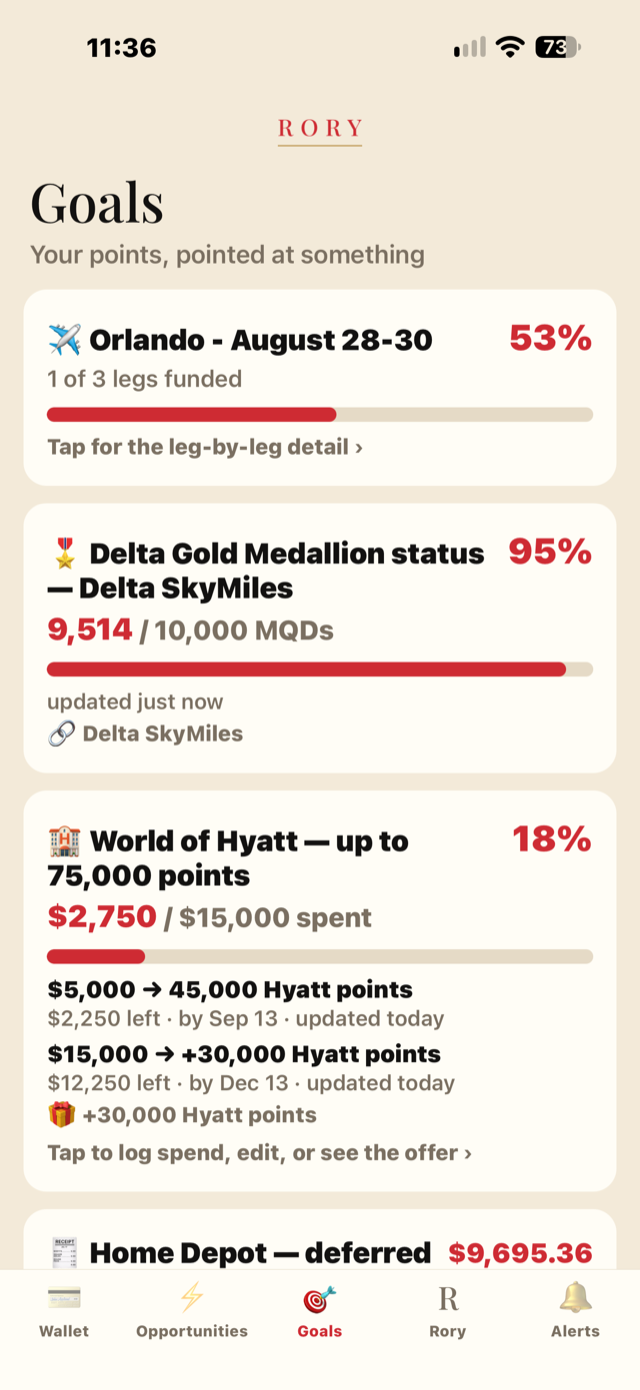
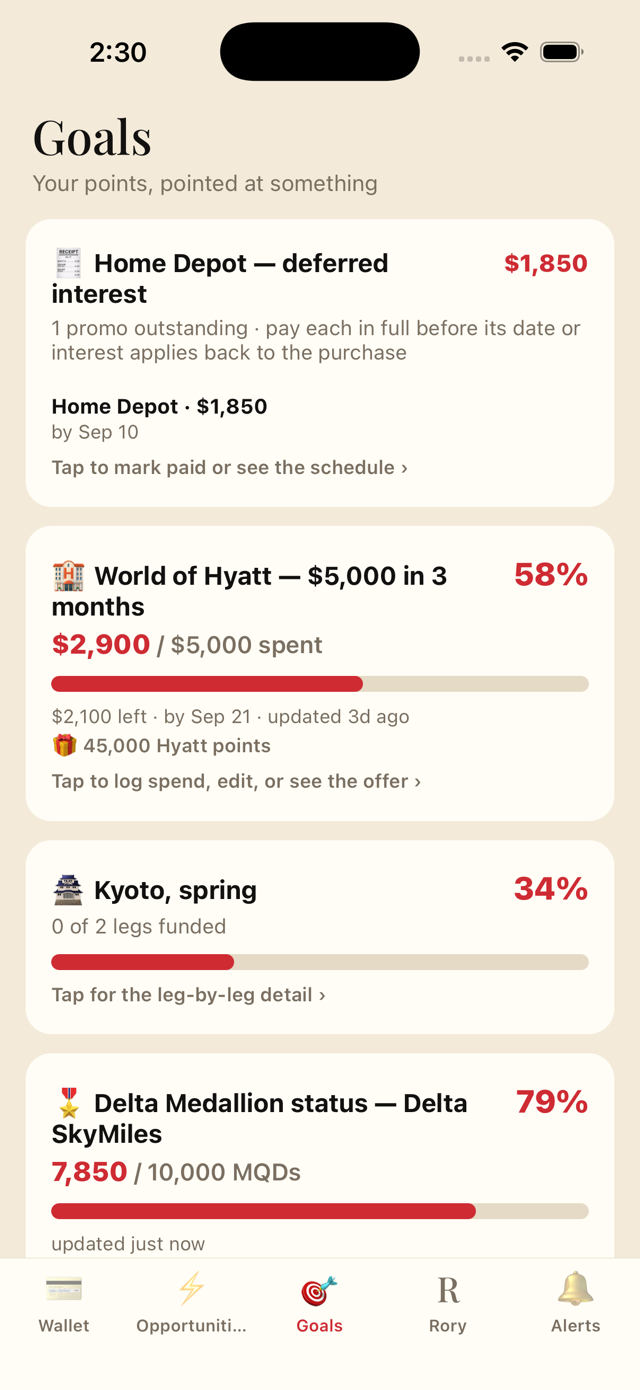
Proof strip: refresh screenshots to the beta.4 demo wallet
Replace all four proof-strip screenshots with fresh captures from the
camera-ready demo wallet (downscaled to the existing 640x1390). Reorder
to Wallet -> Wyndham (Heads Up) -> Goals -> Rory. Update the goals + rory
alt text and the rory caption to match the new shots (the Rory shot is
now a "Worth It" verdict, not a ConfirmCard proposal).

Remove the .phone::before mockup notch — the screenshots are real iOS
captures that already show the Dynamic Island, so the CSS notch produced
a double cutout.

diff --git a/index.html b/index.html
@@ -77,20 +77,20 @@
 
       <div class="shots">
         <div class="shot"><figure>
-          <div class="phone"><img src="assets/shot-heads-up.png" alt="Rory Heads Up card — Wyndham's new award chart detected five weeks early, top tier up 50%" loading="lazy" width="640" height="1390"></div>
-          <figcaption><b>A chart devaluation, five weeks early.</b> The old award pricing still books until Sep&nbsp;15.</figcaption>
-        </figure></div>
-        <div class="shot"><figure>
-          <div class="phone"><img src="assets/shot-goals.png" alt="Rory Goals screen — a World of Hyatt welcome offer tracked as two spend tranches" loading="lazy" width="640" height="1390"></div>
-          <figcaption><b>A welcome offer, tracked in tranches.</b> Spend paced to the bonus, not the ad.</figcaption>
-        </figure></div>
-        <div class="shot"><figure>
           <div class="phone"><img src="assets/shot-wallet.png" alt="Rory Wallet screen — the For Your Review attention stack with a cash-out floor" loading="lazy" width="640" height="1390"></div>
           <figcaption><b>One line for what needs a decision.</b> Everything else stays quiet.</figcaption>
         </figure></div>
         <div class="shot"><figure>
-          <div class="phone"><img src="assets/shot-rory.png" alt="Rory chat — Rory proposes an Amex Platinum welcome-offer goal on a ConfirmCard" loading="lazy" width="640" height="1390"></div>
-          <figcaption><b>Rory proposes the goal.</b> You confirm; he tracks the spend.</figcaption>
+          <div class="phone"><img src="assets/shot-heads-up.png" alt="Rory Heads Up card — Wyndham's new award chart detected five weeks early, top tier up 50%" loading="lazy" width="640" height="1390"></div>
+          <figcaption><b>A chart devaluation, five weeks early.</b> The old award pricing still books until Sep&nbsp;15.</figcaption>
+        </figure></div>
+        <div class="shot"><figure>
+          <div class="phone"><img src="assets/shot-goals.png" alt="Rory Goals screen — a Home Depot deferred-interest payoff, a World of Hyatt welcome-offer spend goal, and a Delta status tracker" loading="lazy" width="640" height="1390"></div>
+          <figcaption><b>A welcome offer, tracked in tranches.</b> Spend paced to the bonus, not the ad.</figcaption>
+        </figure></div>
+        <div class="shot"><figure>
+          <div class="phone"><img src="assets/shot-rory.png" alt="Rory chat — a Worth It verdict on a Freedom Flex 5% quarter, grounded in the user's own goals" loading="lazy" width="640" height="1390"></div>
+          <figcaption><b>Rory's read on any offer.</b> A plain Worth&nbsp;It — or Skip — grounded in your numbers.</figcaption>
         </figure></div>
       </div>
 

diff --git a/assets/site.css b/assets/site.css
@@ -109,8 +109,7 @@ em{font-style:italic;color:var(--crimson)}
 .phone{position:relative;border-radius:30px;background:#0c0c0c;padding:9px;
   box-shadow:0 20px 40px -22px rgba(18,17,16,.55),0 2px 0 rgba(255,255,255,.04) inset;
   aspect-ratio:9/19.5;overflow:hidden}
-.phone::before{content:"";position:absolute;top:11px;left:50%;transform:translateX(-50%);
-  width:34%;height:15px;background:#0c0c0c;border-radius:0 0 12px 12px;z-index:2}
+/* No CSS notch — the screenshots are real iOS captures that already show the Dynamic Island. */
 .phone img{width:100%;height:100%;object-fit:cover;border-radius:22px;background:var(--cream)}
 /* Placeholder shown until the real screenshot PNG is dropped in */
 .phone.ph{display:flex;align-items:center;justify-content:center;text-align:center}
